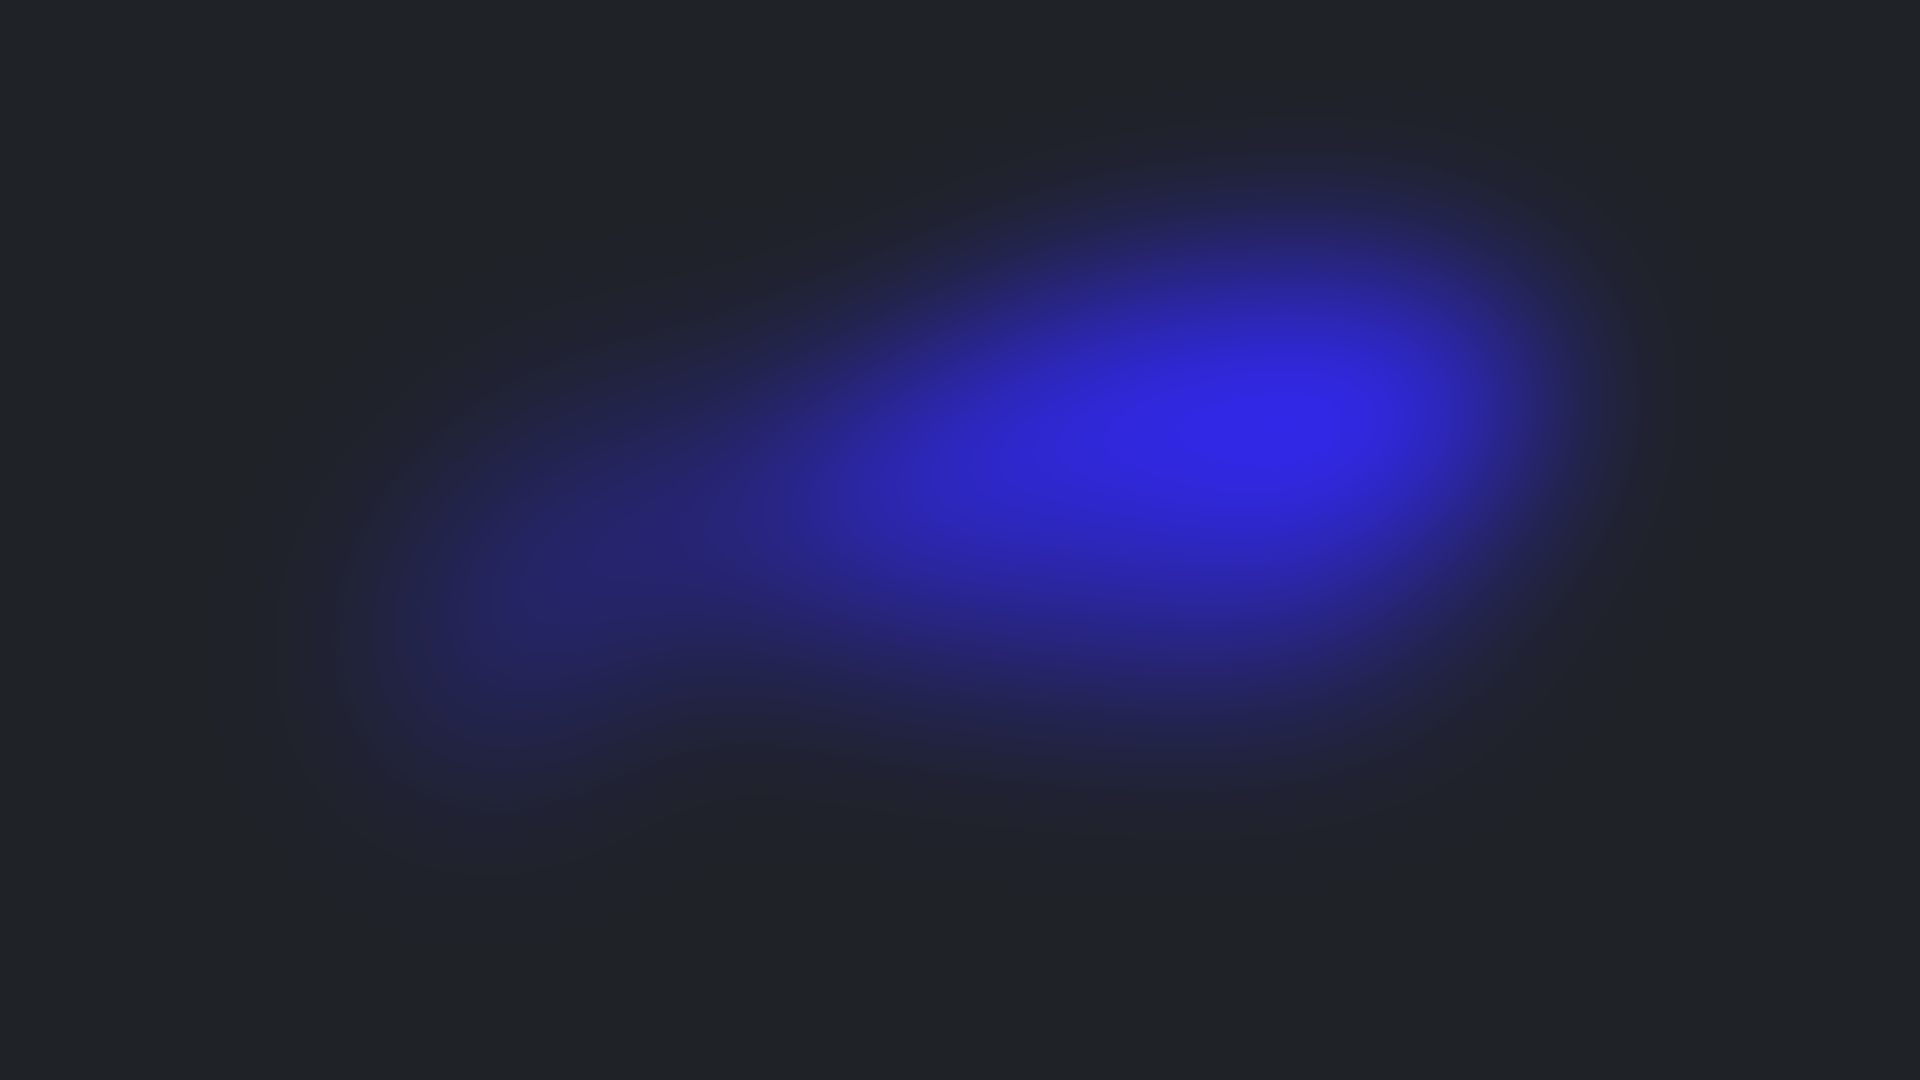
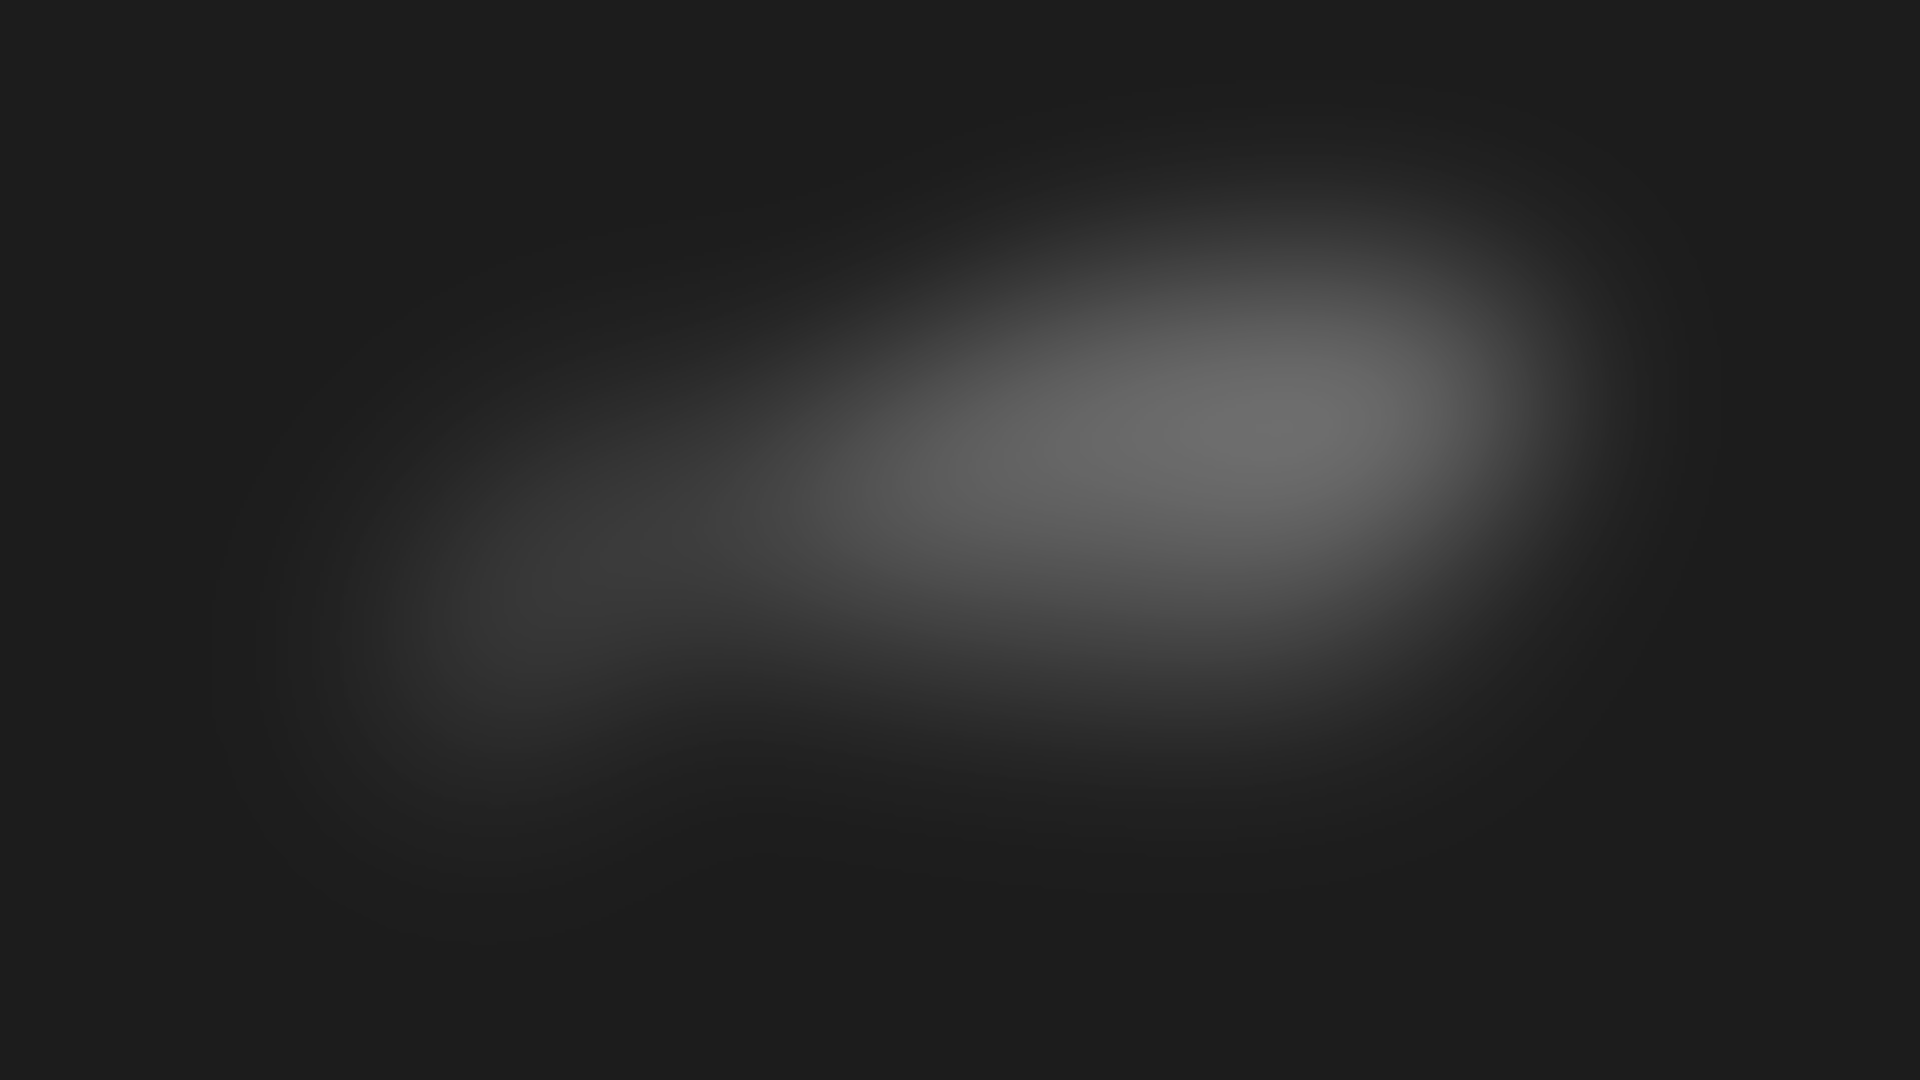
modified:   css/style.css 	modified:   img/background.png

Changed region(s): [[0.1875, 0.1528, 0.8438, 0.7333]]

diff --git a/css/style.css b/css/style.css
@@ -606,13 +606,20 @@ aside {
 @media screen and (max-width: 480px) {
     /* Навигация */
     body {
-        background: url('../img/background2.jpg') no-repeat center center fixed;
+        background: url('../img/background.png') no-repeat center center fixed;
+        background-size: cover;
+        background-repeat: no-repeat;
+        background-position: center;
+        -webkit-background-size: cover;
+        -moz-background-size: cover;
+        -o-background-size: cover;
     }
     
     nav {
         padding: 10px 20px;
         position: fixed;
-        background-color: rgb(22, 22, 24);
+        background-color: transparent;
+        backdrop-filter: blur(50px);
     }
 
     #logo img {
